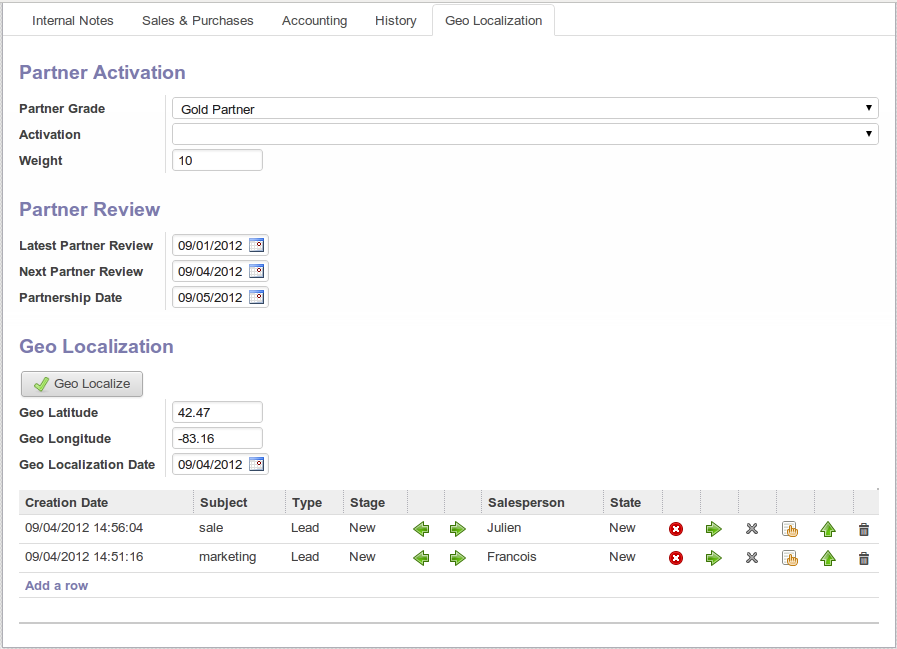
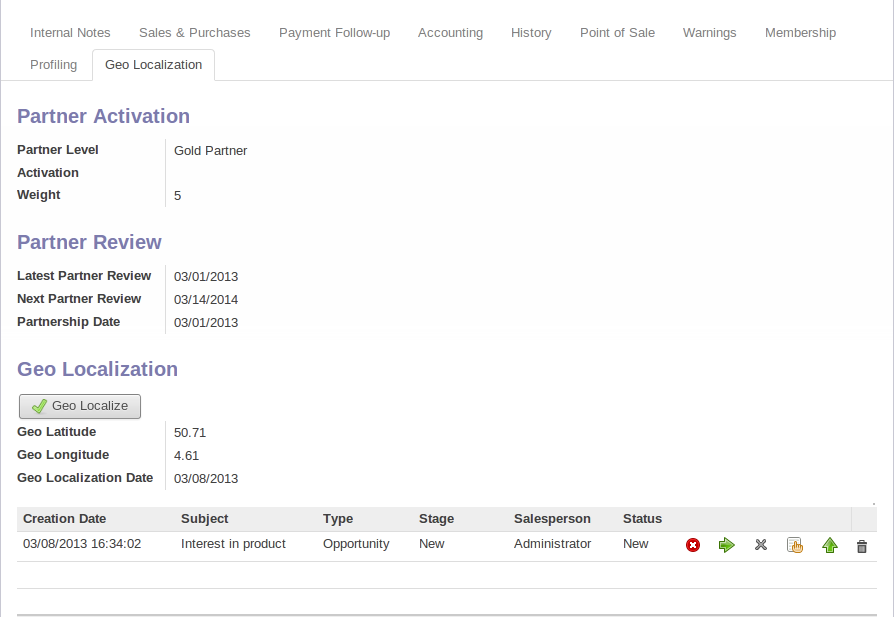
[IMP]:Managing your Indirect Sales added:   source/book/2/3_CRM_Contacts/images/Geo_Assign.png modified:   source/book/2/3_CRM_Contacts/channel.rst   source/book/2/3_CRM_Contacts/images/crm_partner_geolocalize.png

diff --git a/2/3_CRM_Contacts/channel.rst b/2/3_CRM_Contacts/channel.rst
@@ -16,18 +16,29 @@ You can use geolocalization to assign and forward opportunities to channel partn
 
 Through :menuselection:`Sales --> Configuration --> Leads & Opportunities --> Partner Grade`, you can create partner grades to classify your partners, such as Gold Partner, Silver Partner, Ready Partner. These grades will be used to determine who gets assigned which kind of opportunities.
 
-Assign the grades to the partners on the `Geo Localization` tab of the Customer form. Also assign a `Weight` to determine the probability of assigning opportunities to a partner. The weight might for instance be how much the partner pays for their channel partner contract.
+Assign the Partner Level on the `Geo Localization` tab of the Customer form. Also assign a `Weight` to determine the probability of assigning opportunities to a partner. The weight might for instance be how much the partner pays for their channel partner contract.
 
 How can you tell OpenERP to geolocalize an opportunity?
  
 Either you convert a promising lead to an opportunity, or you go directly to the opportunity you wish to assign to the channel partner.
 Go to the `Assignation` tab of the **Opportunities** form, and click the `Geo Assign` button. The location of the partner in the opportunity will be matched with the geolatitude and the weight of the channel partners. The most appropriate channel partner will be assigned.
 
+For Example,customer(Agrolait) has 2 partners,Michel Fletcher and Thomas Passot in his region.
+Now,suppose opportunity(Interest in product) has customer Agrolait, and now go to `Assignation` tab.
+After clicking `Geo Assign` button, Assign Partner field shows Michel Fletcher, because Michel Fletcher is one of the partner of Agroalait in nearest region, so it shows that result.
+The following image shows this example,
+
+.. figure:: images/Geo_Assign.png
+   :scale: 75
+   :align: center
+
+   *Assignation of Partner*
+ 
 .. note:: GPS
 
        You can also use the geolocalisation without GPS coordinates.
 
-Now you can decide whether this is the correct channel partner for this opportunity. If you feel that another channel partner would be better to follow up this opportunity because he , you can change the assigned channel partner.
+Now you can decide whether this is the correct channel partner for this opportunity. If you feel that another channel partner would be better to follow up this opportunity , you can change the assigned channel partner.
 
 To automatically inform the channel partner of the new opportunity, proceed as follows.
 
@@ -39,18 +50,14 @@ To allow your salespeople to keep a view on forwarded opportunities, the assigne
 
 Use the **Opportunity Assignment Analysis** for your reporting, you can use the menu Reporting ‣ Sales ‣ Opp. Assignment Analysis. 
 
-.. todo:: test screen
-
-.. tip:: Google Maps
-
-       Use the geolocalization together with the google_map module. This adds a Map button to your **Partner** form. Click this button to open a browser with the partner's location displayed in Google Maps.
-
 Geolocalization of a Partner
 ----------------------------
 
 To determine the geographic location of your partners, you do not have to enter the GPS coordinates yourself. OpenERP can do this for you. All you have to do is click the ``Geo Localize`` button in the **Customer** form. The GPS coordinates will now be filled according to the address of the partner.
 
 In the partner form, the `Geo Localization` tab gives you the information you need.
+
+As explain in above example of Assign Partner , assign partner is Michel, so he has this opportunity and it is shown in following image.
 
 .. figure:: images/crm_partner_geolocalize.png
    :scale: 75
